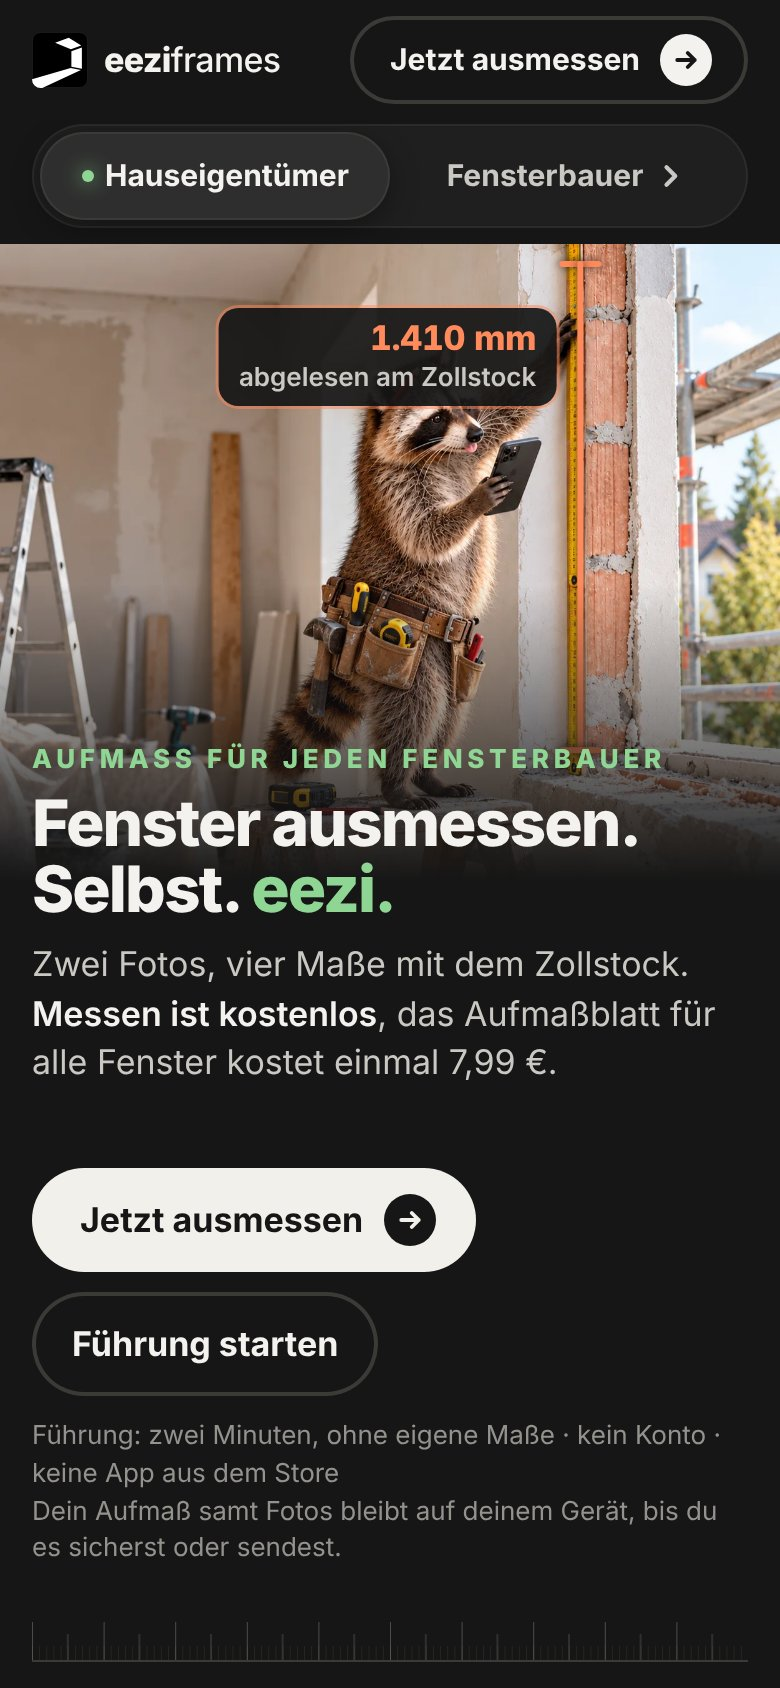
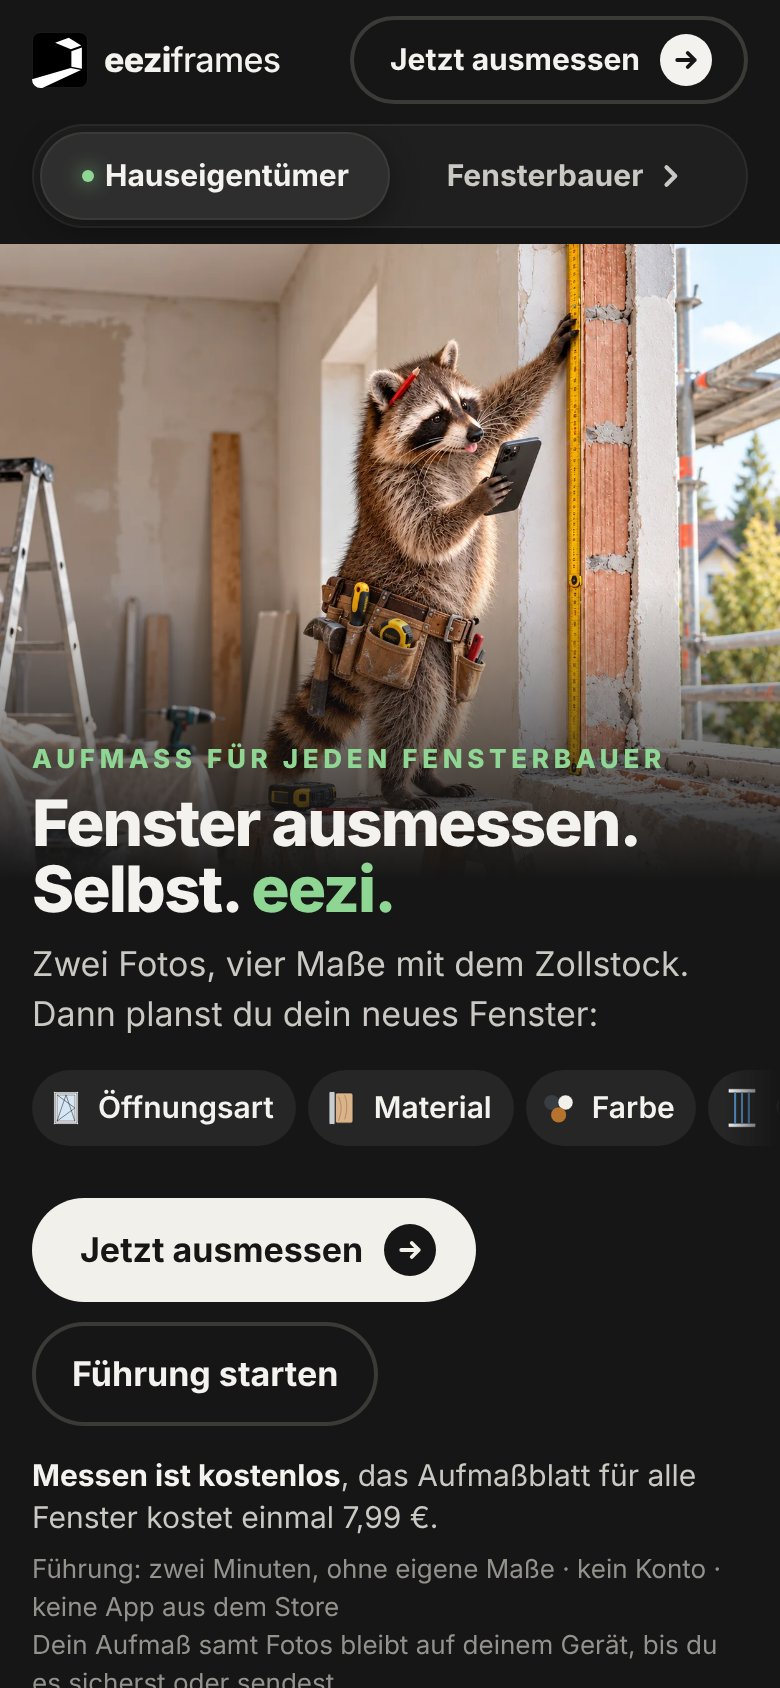
Startseite (Vorschau): Kopf ohne Maßlinie, Bausteinleiste mit den Themen des Konfigurators
Claude-Session: https://claude.ai/code/session_014C8LaYHw3bh6GgCbsL2BNx

diff --git a/docs/profis/startseite-vorschau/index.html b/docs/profis/startseite-vorschau/index.html
@@ -52,17 +52,11 @@ img { max-width: 100%; display: block }
 .seg a[aria-current]::before { content: ""; width: 6px; height: 6px; border-radius: 50%; background: var(--accent); box-shadow: 0 0 10px var(--accent) }
 .seg .chev { width: 14px; height: 14px; fill: none; stroke: currentColor; stroke-width: 2.4; stroke-linecap: round; stroke-linejoin: round }
 
-/* Kopf der Seite: zwei Stimmen auf dem Foto, der Waschbär und die Maßlinie */
+/* Kopf der Seite: das Foto ist der Held und bleibt frei; unter dem Preissatz die Leiste „Dazu planst du“ mit den Symbolen aus dem Konfigurator */
 .hero { padding-top: 8px }
 .foto { position: relative; margin: 0 calc(-1 * var(--gutter-l)) 0 calc(-1 * var(--gutter-r)); height: 360px; overflow: hidden }
-.foto img { width: 100%; height: 100%; object-fit: cover; object-position: 50% 30%; transform: scale(1.06); transform-origin: 50% 40% }
+.foto img { width: 100%; height: 100%; object-fit: cover; object-position: 50% 30%; transform-origin: 50% 40% }
 .foto::after { content: ""; position: absolute; left: 0; right: 0; bottom: 0; height: 190px; background: linear-gradient(0deg, var(--ground) 0%, var(--ground) 22%, rgba(22, 22, 22, .6) 55%, rgba(22, 22, 22, 0) 100%); pointer-events: none }
-.foto .mass { position: absolute; inset: 0; width: 100%; height: 100%; pointer-events: none; overflow: visible }
-.foto .mass line { stroke: var(--mo); stroke-width: 3; stroke-linecap: round; filter: drop-shadow(0 0 2px rgba(22, 22, 22, .8)) }
-.foto .mass .zug { stroke-dasharray: 1; stroke-dashoffset: 0 }
-.mw { position: absolute; transform: translate(-100%, 0); padding: 6px 10px 7px; border-radius: 10px; background: rgba(22, 22, 22, .92); text-align: right; white-space: nowrap; box-shadow: 0 0 0 1.5px rgba(255, 138, 91, .5) }
-.mw b { display: block; color: var(--mo); font-size: 17px; line-height: 1.1; font-weight: 800; font-variant-numeric: tabular-nums; letter-spacing: -.01em }
-.mw small { display: block; margin-top: 2px; color: var(--text2); font-size: 13px; line-height: 1.2; font-weight: 600 }
 .kicker { margin: 0; font-size: 13px; font-weight: 800; letter-spacing: .18em; text-transform: uppercase; color: var(--accent) }
 .hero .text { position: relative; z-index: 2; margin-top: -112px }
 h1 { margin: 6px 0 0; font-size: 32px; line-height: 1.05; font-weight: 800; letter-spacing: -.03em; text-wrap: balance }
@@ -72,8 +66,23 @@ h1 .ak { color: var(--accent) }
 .lead { margin: 8px 0 0; font-size: 17px; line-height: 1.45; color: var(--text2); max-width: 36ch; text-wrap: pretty }
 .lead b { color: var(--text); font-weight: 600 }
 .cta { display: flex; flex-wrap: wrap; gap: 10px; margin-top: 48px }
-.hero .cta { margin-top: 40px }
-.hint { margin: 10px 0 0; font-size: 13px; color: var(--muted); max-width: 46ch; text-wrap: pretty }
+.hero .cta { margin-top: 24px }
+.preiszeile { margin: 14px 0 0; font-size: 15px; line-height: 1.4; color: var(--text2); max-width: 40ch; text-wrap: pretty }
+.preiszeile b { color: var(--text); font-weight: 700 }
+/* Bausteine: was man in der App plant. Am Telefon eine wischbare Leiste bis an den Rand, rechts ausgeblendet (es kommt mehr); ab 720 px umbrochen. Keine Knöpfe: Schilder ohne Hover und ohne Pfeil. */
+.bausteine { list-style: none; display: flex; align-items: center; gap: 8px; margin: 14px calc(-1 * var(--gutter-r)) 0 calc(-1 * var(--gutter-l)); padding: 2px var(--gutter-r) 2px var(--gutter-l); overflow-x: auto; overscroll-behavior-x: contain; scroll-snap-type: x proximity; scroll-padding-left: var(--gutter-l); scrollbar-width: none; -webkit-mask-image: linear-gradient(90deg, #000 calc(100% - 48px), transparent); mask-image: linear-gradient(90deg, #000 calc(100% - 48px), transparent) }
+.bausteine::-webkit-scrollbar { display: none }
+.bausteine.ende { -webkit-mask-image: none; mask-image: none }
+.bausteine li { flex: 0 0 auto; scroll-snap-align: start }
+.baustein { display: inline-flex; align-items: center; gap: 6px; height: 38px; padding: 0 13px 0 7px; border-radius: 999px; background: rgba(243, 242, 238, .075); font-size: 15px; font-weight: 600; color: var(--text); white-space: nowrap; cursor: default }
+.baustein svg { width: 24px; height: 24px; flex: 0 0 auto }
+@media (max-width: 719px) {
+  /* Telefon: so schmal, dass der vierte Baustein unter der Ausblendung sichtbar anschaut */
+  .bausteine { gap: 6px; -webkit-mask-image: linear-gradient(90deg, #000 calc(100% - 28px), transparent); mask-image: linear-gradient(90deg, #000 calc(100% - 28px), transparent) }
+  .baustein { gap: 5px; padding: 0 11px 0 6px }
+  .baustein svg { width: 22px; height: 22px }
+}
+.hint { margin: 6px 0 0; font-size: 13px; color: var(--muted); max-width: 46ch; text-wrap: pretty }
 
 /* Messband: füllt sich mit dem Lesen */
 .band { position: relative; height: 26px; margin: 22px 0 0; overflow: hidden }
@@ -153,23 +162,19 @@ h2 .ak { color: var(--accent) }
 .fuss a { text-decoration: none; color: var(--muted); min-height: 32px; display: inline-flex; align-items: center }
 .fuss a:hover { color: var(--text) }
 
-/* Auftritt, vier Takte (ms): 0 Foto 1,06 → 1 (900) · 0 Kicker, 0/80 Zeilen der Überschrift aus der Maske (500, fertig bei 580), 160 Lead (500) · Pille und Hinweis stehen von Bild eins an · 800 Maßlinie zeichnet sich am Zollstock (900), 1700 der Wert landet (400). Nach 2,1 s Stille. */
+/* Auftritt, vier Takte (ms): 0 Foto 1,06 → 1 (900) · 0 Kicker, 0/80 Zeilen der Überschrift aus der Maske (500, fertig bei 580), 160 Lead (500) · 420 Bausteine gleiten von rechts in die Leiste, je 50 ms später (320; zeigt: da kommt mehr) · Pille und Hinweis stehen von Bild eins an. Nach 1,1 s Stille. */
 .an .foto img { animation: foto 900ms var(--e-auf) both }
 @keyframes foto { from { transform: scale(1.06) } to { transform: scale(1) } }
 .an .kicker.k1 { animation: auf 500ms var(--e-auf) both }
 .an h1 .zeile:nth-child(1) > span { animation: maske 500ms var(--e-auf) both }
 .an h1 .zeile:nth-child(2) > span { animation: maske 500ms var(--e-auf) 80ms both }
 .an .lead { animation: auf 500ms var(--e-auf) 160ms both }
-.an .mass .zug { animation: zug 900ms var(--e-auf) 800ms both }
-.an .mass .kappe { animation: ein 300ms var(--e-out) both } .an .mass .kappe.a { animation-delay: 800ms } .an .mass .kappe.b { animation-delay: 1500ms }
-.an .mw { animation: aufmw 400ms var(--e-auf) 1700ms both }
+.an .bausteine li { animation: rein 320ms var(--e-auf) both; animation-delay: calc(420ms + var(--i, 0) * 50ms) }
 @keyframes auf { from { opacity: 0; transform: translateY(10px) } to { opacity: 1; transform: none } }
 @keyframes maske { from { transform: translateY(110%) } to { transform: none } }
-@keyframes zug { from { stroke-dashoffset: 1 } to { stroke-dashoffset: 0 } }
-@keyframes ein { from { opacity: 0 } to { opacity: 1 } }
-@keyframes aufmw { from { opacity: 0; transform: translate(-100%, 10px) } to { opacity: 1; transform: translate(-100%, 0) } }
+@keyframes rein { from { opacity: 0; transform: translateX(16px) } to { opacity: 1; transform: none } }
 /* Bis die Schrift geladen ist, stehen die Takte auf ihrem ersten Bild (sonst springt die Maske beim Schriftwechsel) */
-.an.warte .foto img, .an.warte .kicker.k1, .an.warte h1 .zeile > span, .an.warte .lead, .an.warte .mass .zug, .an.warte .mass .kappe, .an.warte .mw { animation-play-state: paused }
+.an.warte .foto img, .an.warte .kicker.k1, .an.warte h1 .zeile > span, .an.warte .lead, .an.warte .bausteine li { animation-play-state: paused }
 
 /* Abschnitte erscheinen einmal, wenn 15 % im Bild sind: 600 ms, 12 px */
 .rev .haar { transform: scaleX(0); transition: transform 600ms var(--e-auf) }
@@ -180,7 +185,7 @@ h2 .ak { color: var(--accent) }
 .rev.in .kicker, .rev.in h2, .rev.in .sub, .rev.in .schritt, .rev.in .medien, .rev.in .liste, .rev.in .beispiel, .rev.in .linkzeile, .rev.in .arten, .rev.in .preis, .rev.in .rat, .rev.in .fb-inhalt { opacity: 1; transform: none }
 
 @media (prefers-reduced-motion: reduce) {
-  .an .foto img, .an .kicker.k1, .an h1 .zeile > span, .an .lead, .an .mass .zug, .an .mass .kappe, .an .mw { animation: none }
+  .an .foto img, .an .kicker.k1, .an h1 .zeile > span, .an .lead, .an .bausteine li { animation: none }
   .foto img { transform: none }
   .rev .haar, .rev .kicker, .rev h2, .rev .sub, .rev .schritt, .rev .medien, .rev .liste, .rev .beispiel, .rev .linkzeile, .rev .arten, .rev .preis, .rev .rat, .rev .fb-inhalt { opacity: 1; transform: none; transition: none }
   .band .fuell { transition: none }
@@ -192,6 +197,7 @@ h2 .ak { color: var(--accent) }
   .blattblock { grid-template-columns: minmax(0, 1fr) minmax(0, 1fr); gap: 40px }
   .liste { grid-template-columns: 1fr 1fr }
   .arten { grid-template-columns: repeat(6, 1fr); max-width: none }
+  .bausteine { flex-wrap: wrap; overflow: visible; margin-left: 0; margin-right: 0; padding: 0; max-width: 470px; -webkit-mask-image: none; mask-image: none }
 }
 @media (min-width: 1024px) {
   .seg { width: 320px; margin: 0 auto }
@@ -219,14 +225,14 @@ h2 .ak { color: var(--accent) }
 <section class="hero" id="kopf">
   <div class="fotohalter"><div class="foto">
     <img src="bilder/hero.webp" width="1250" height="1250" alt="Ein Waschbär steht auf einem Tritt und misst mit dem Zollstock die Maueröffnung eines Fensters, in der anderen Pfote das Handy" fetchpriority="high">
-    <svg class="mass" aria-hidden="true"><line class="kappe a" x1="0" y1="0" x2="0" y2="0"/><line class="zug" pathLength="1" x1="0" y1="0" x2="0" y2="0"/><line class="kappe b" x1="0" y1="0" x2="0" y2="0"/></svg>
-    <span class="mw" id="mw"><b>1.410 mm</b><small>abgelesen am Zollstock</small></span>
   </div></div>
   <div class="text">
     <p class="kicker k1">Aufmaß für jeden Fensterbauer</p>
     <h1><span class="zeile"><span>Fenster ausmessen.</span></span><span class="zeile"><span>Selbst. <span class="ak">eezi.</span></span></span></h1>
-    <p class="lead">Zwei Fotos, vier Maße mit dem Zollstock. <b>Messen ist kostenlos</b>, das Aufmaßblatt für alle Fenster kostet einmal 7,99&nbsp;€.</p>
+    <p class="lead">Zwei Fotos, vier Maße mit dem Zollstock. Dann planst du dein neues Fenster:</p>
+    <ul class="bausteine" id="bausteine" aria-label="Dazu planst du in der App"><li style="--i: 0"><span class="baustein"><svg aria-hidden="true" viewBox="0 0 64 64" width="40" height="40" aria-hidden="true"><path d="M15.2 8h33.6a1.2 1.2 0 0 1 1.2 1.2v45.6a1.2 1.2 0 0 1 -1.2 1.2h-33.6a1.2 1.2 0 0 1 -1.2 -1.2v-45.6a1.2 1.2 0 0 1 1.2 -1.2Z" fill="#ffffff" stroke="#1d1d1f" stroke-width="1.3" stroke-linecap="round" stroke-linejoin="round"></path><path d="M16.2 10.2h31.7v43.7h-31.7Z" fill="#ffffff" stroke="#1d1d1f" stroke-width="0.8" stroke-linecap="round" stroke-linejoin="round"></path><path d="M19 13h26v38h-26Z" fill="#d6e6f4" stroke="#1d1d1f" stroke-width="0.6" stroke-linecap="round" stroke-linejoin="round"></path><path d="M19 13L45 32L19 51" fill="none" stroke="#1d1d1f" stroke-width="0.75" stroke-linecap="round" stroke-linejoin="round"></path><path d="M19 51L32 13L45 51" fill="none" stroke="#1d1d1f" stroke-width="0.75" stroke-linecap="round" stroke-linejoin="round"></path></svg>Öffnungsart</span></li><li style="--i: 1"><span class="baustein"><svg aria-hidden="true" viewBox="0 0 64 64" width="40" height="40" aria-hidden="true"><path d="M25 10h20a3 3 0 0 1 3 3v38a3 3 0 0 1 -3 3h-20a3 3 0 0 1 -3 -3v-38a3 3 0 0 1 3 -3Z" fill="#d9b48a" stroke="#1d1d1f" stroke-width="1.3" stroke-linecap="round" stroke-linejoin="round"></path><path d="M27 16c5 10 5 22 0 34M36 14c4 8 4 22 0 34" fill="none" stroke="#a3763f" stroke-width="1" stroke-linecap="round" stroke-linejoin="round"></path><path d="M15 8h5a2 2 0 0 1 2 2v44a2 2 0 0 1 -2 2h-5a2 2 0 0 1 -2 -2v-44a2 2 0 0 1 2 -2Z" fill="#c8cdd2" stroke="#1d1d1f" stroke-width="1.3" stroke-linecap="round" stroke-linejoin="round"></path></svg>Material</span></li><li style="--i: 2"><span class="baustein"><svg aria-hidden="true" viewBox="0 0 64 64" width="40" height="40" aria-hidden="true"><path d="M9 24a11 11 0 1 0 22 0a11 11 0 1 0 -22 0Z" fill="#383e42" stroke="none" stroke-width="1.6" stroke-linecap="round" stroke-linejoin="round"></path><path d="M29 24a11 11 0 1 0 22 0a11 11 0 1 0 -22 0Z" fill="#f1f0ea" stroke="#1d1d1f" stroke-width="0.8" stroke-linecap="round" stroke-linejoin="round"></path><path d="M19 42a11 11 0 1 0 22 0a11 11 0 1 0 -22 0Z" fill="#b5732f" stroke="none" stroke-width="1.6" stroke-linecap="round" stroke-linejoin="round"></path></svg>Farbe</span></li><li style="--i: 3"><span class="baustein"><svg aria-hidden="true" viewBox="0 0 64 64" width="40" height="40" aria-hidden="true"><path d="M13.5 4h37a1.5 1.5 0 0 1 1.5 1.5v3a1.5 1.5 0 0 1 -1.5 1.5h-37a1.5 1.5 0 0 1 -1.5 -1.5v-3a1.5 1.5 0 0 1 1.5 -1.5Z" fill="#ffffff" stroke="#1d1d1f" stroke-width="1" stroke-linecap="round" stroke-linejoin="round"></path><path d="M13.5 54h37a1.5 1.5 0 0 1 1.5 1.5v3a1.5 1.5 0 0 1 -1.5 1.5h-37a1.5 1.5 0 0 1 -1.5 -1.5v-3a1.5 1.5 0 0 1 1.5 -1.5Z" fill="#ffffff" stroke="#1d1d1f" stroke-width="1" stroke-linecap="round" stroke-linejoin="round"></path><path d="M22 10L22 54" fill="none" stroke="#5b9bd5" stroke-width="3" stroke-linecap="round" stroke-linejoin="round"></path><path d="M32 10L32 54" fill="none" stroke="#5b9bd5" stroke-width="3" stroke-linecap="round" stroke-linejoin="round"></path><path d="M42 10L42 54" fill="none" stroke="#5b9bd5" stroke-width="3" stroke-linecap="round" stroke-linejoin="round"></path></svg>Glas</span></li><li style="--i: 4"><span class="baustein"><svg aria-hidden="true" viewBox="0 0 64 64" width="40" height="40" aria-hidden="true"><path d="M15.2 8h33.6a1.2 1.2 0 0 1 1.2 1.2v45.6a1.2 1.2 0 0 1 -1.2 1.2h-33.6a1.2 1.2 0 0 1 -1.2 -1.2v-45.6a1.2 1.2 0 0 1 1.2 -1.2Z" fill="#ffffff" stroke="#1d1d1f" stroke-width="1.3" stroke-linecap="round" stroke-linejoin="round"></path><path d="M18 12h28v40h-28Z" fill="#d6e6f4" stroke="#1d1d1f" stroke-width="0.7" stroke-linecap="round" stroke-linejoin="round"></path><path d="M32 12L32 52" fill="none" stroke="#1d1d1f" stroke-width="1.4" stroke-linecap="round" stroke-linejoin="round"></path><path d="M18 32L46 32" fill="none" stroke="#1d1d1f" stroke-width="1.4" stroke-linecap="round" stroke-linejoin="round"></path></svg>Sprossen</span></li><li style="--i: 5"><span class="baustein"><svg aria-hidden="true" viewBox="0 0 64 64" width="40" height="40" aria-hidden="true"><path d="M31 6h2a5 5 0 0 1 5 5v14a5 5 0 0 1 -5 5h-2a5 5 0 0 1 -5 -5v-14a5 5 0 0 1 5 -5Z" fill="#ffffff" stroke="#1d1d1f" stroke-width="1.3" stroke-linecap="round" stroke-linejoin="round"></path><path d="M32 18h0a3 3 0 0 1 3 3v34a3 3 0 0 1 -3 3h0a3 3 0 0 1 -3 -3v-34a3 3 0 0 1 3 -3Z" fill="#ffffff" stroke="#1d1d1f" stroke-width="1.3" stroke-linecap="round" stroke-linejoin="round"></path><path d="M29.6 12a2.4 2.4 0 1 0 4.8 0a2.4 2.4 0 1 0 -4.8 0Z" fill="#1d1d1f" stroke="none" stroke-width="1.6" stroke-linecap="round" stroke-linejoin="round"></path><path d="M32 12L32 15.5" fill="none" stroke="#1d1d1f" stroke-width="1.4" stroke-linecap="round" stroke-linejoin="round"></path></svg>Griff</span></li><li style="--i: 6"><span class="baustein"><svg aria-hidden="true" viewBox="0 0 64 64" width="40" height="40" aria-hidden="true"><path d="M32 5l20 8v15c0 13-8 23-20 31C20 51 12 41 12 28V13z" fill="#ffffff" stroke="#1d1d1f" stroke-width="1.4" stroke-linecap="round" stroke-linejoin="round"></path><path d="M27 28h10a2 2 0 0 1 2 2v8a2 2 0 0 1 -2 2h-10a2 2 0 0 1 -2 -2v-8a2 2 0 0 1 2 -2Z" fill="#1d1d1f" stroke="none" stroke-width="1.6" stroke-linecap="round" stroke-linejoin="round"></path><path d="M28 28v-4a4 4 0 0 1 8 0v4" fill="none" stroke="#1d1d1f" stroke-width="1.8" stroke-linecap="round" stroke-linejoin="round"></path></svg>Sicherheit</span></li><li style="--i: 7"><span class="baustein"><svg aria-hidden="true" viewBox="0 0 64 64" width="40" height="40" aria-hidden="true"><path d="M14 2h36v10h-36Z" fill="#ddd6cb" stroke="#1d1d1f" stroke-width="0.8" stroke-linecap="round" stroke-linejoin="round"></path><path d="M14 54h36v8h-36Z" fill="#ddd6cb" stroke="#1d1d1f" stroke-width="0.8" stroke-linecap="round" stroke-linejoin="round"></path><path d="M22 12h20v42h-20Z" fill="#ffffff" stroke="#1d1d1f" stroke-width="1.1" stroke-linecap="round" stroke-linejoin="round"></path><path d="M24.5 14.5h15v37h-15Z" fill="#d6e6f4" stroke="#1d1d1f" stroke-width="0.6" stroke-linecap="round" stroke-linejoin="round"></path><path d="M19.5 10h25a1.5 1.5 0 0 1 1.5 1.5v4a1.5 1.5 0 0 1 -1.5 1.5h-25a1.5 1.5 0 0 1 -1.5 -1.5v-4a1.5 1.5 0 0 1 1.5 -1.5Z" fill="#ffffff" stroke="#1d1d1f" stroke-width="1.1" stroke-linecap="round" stroke-linejoin="round"></path><path d="M20.6 19h22.8a0.6 0.6 0 0 1 0.6 0.6v1.4a0.6 0.6 0 0 1 -0.6 0.6h-22.8a0.6 0.6 0 0 1 -0.6 -0.6v-1.4a0.6 0.6 0 0 1 0.6 -0.6Z" fill="#b9bdc2" stroke="#1d1d1f" stroke-width="0.4" stroke-linecap="round" stroke-linejoin="round"></path><path d="M20.6 22h22.8a0.6 0.6 0 0 1 0.6 0.6v1.4a0.6 0.6 0 0 1 -0.6 0.6h-22.8a0.6 0.6 0 0 1 -0.6 -0.6v-1.4a0.6 0.6 0 0 1 0.6 -0.6Z" fill="#b9bdc2" stroke="#1d1d1f" stroke-width="0.4" stroke-linecap="round" stroke-linejoin="round"></path><path d="M20.6 25h22.8a0.6 0.6 0 0 1 0.6 0.6v1.4a0.6 0.6 0 0 1 -0.6 0.6h-22.8a0.6 0.6 0 0 1 -0.6 -0.6v-1.4a0.6 0.6 0 0 1 0.6 -0.6Z" fill="#b9bdc2" stroke="#1d1d1f" stroke-width="0.4" stroke-linecap="round" stroke-linejoin="round"></path><path d="M20.6 28h22.8a0.6 0.6 0 0 1 0.6 0.6v1.4a0.6 0.6 0 0 1 -0.6 0.6h-22.8a0.6 0.6 0 0 1 -0.6 -0.6v-1.4a0.6 0.6 0 0 1 0.6 -0.6Z" fill="#b9bdc2" stroke="#1d1d1f" stroke-width="0.4" stroke-linecap="round" stroke-linejoin="round"></path><path d="M20.6 31h22.8a0.6 0.6 0 0 1 0.6 0.6v1.4a0.6 0.6 0 0 1 -0.6 0.6h-22.8a0.6 0.6 0 0 1 -0.6 -0.6v-1.4a0.6 0.6 0 0 1 0.6 -0.6Z" fill="#b9bdc2" stroke="#1d1d1f" stroke-width="0.4" stroke-linecap="round" stroke-linejoin="round"></path><path d="M20.6 34h22.8a0.6 0.6 0 0 1 0.6 0.6v1.4a0.6 0.6 0 0 1 -0.6 0.6h-22.8a0.6 0.6 0 0 1 -0.6 -0.6v-1.4a0.6 0.6 0 0 1 0.6 -0.6Z" fill="#b9bdc2" stroke="#1d1d1f" stroke-width="0.4" stroke-linecap="round" stroke-linejoin="round"></path></svg>Rollladen</span></li><li style="--i: 8"><span class="baustein"><svg aria-hidden="true" viewBox="0 0 64 64" width="40" height="40" aria-hidden="true"><path d="M14 6h36a2 2 0 0 1 2 2v48a2 2 0 0 1 -2 2h-36a2 2 0 0 1 -2 -2v-48a2 2 0 0 1 2 -2Z" fill="#ffffff" stroke="#1d1d1f" stroke-width="1.3" stroke-linecap="round" stroke-linejoin="round"></path><path d="M17 11h30v42h-30Z" fill="#eef1f4" stroke="#1d1d1f" stroke-width="0.7" stroke-linecap="round" stroke-linejoin="round"></path><path d="M20 11L20 53M24 11L24 53M28 11L28 53M32 11L32 53M36 11L36 53M40 11L40 53M44 11L44 53M17 14L47 14M17 18L47 18M17 22L47 22M17 26L47 26M17 30L47 30M17 34L47 34M17 38L47 38M17 42L47 42M17 46L47 46M17 50L47 50" fill="none" stroke="#a1a1a6" stroke-width="0.5" stroke-linecap="round" stroke-linejoin="round"></path><path d="M11 16h1a1 1 0 0 1 1 1v5a1 1 0 0 1 -1 1h-1a1 1 0 0 1 -1 -1v-5a1 1 0 0 1 1 -1Z" fill="#1d1d1f" stroke="none" stroke-width="1.6" stroke-linecap="round" stroke-linejoin="round"></path><path d="M11 41h1a1 1 0 0 1 1 1v5a1 1 0 0 1 -1 1h-1a1 1 0 0 1 -1 -1v-5a1 1 0 0 1 1 -1Z" fill="#1d1d1f" stroke="none" stroke-width="1.6" stroke-linecap="round" stroke-linejoin="round"></path><path d="M52 58A40 40 0 0 0 52 18" fill="none" stroke="#a1a1a6" stroke-width="1" stroke-dasharray="2 2" stroke-linecap="round" stroke-linejoin="round"></path></svg>Insektenschutz</span></li><li style="--i: 9"><span class="baustein"><svg aria-hidden="true" viewBox="0 0 64 64" width="40" height="40" aria-hidden="true"><path d="M6 30h40v24h-40Z" fill="#ddd6cb" stroke="#1d1d1f" stroke-width="0.8" stroke-linecap="round" stroke-linejoin="round"></path><path d="M30 8h8v22h-8Z" fill="#ffffff" stroke="#1d1d1f" stroke-width="1.1" stroke-linecap="round" stroke-linejoin="round"></path><path d="M38 30L60 32L60 35L38 33Z" fill="#c8cdd2" stroke="#1d1d1f" stroke-width="1" stroke-linecap="round" stroke-linejoin="round"></path></svg>Fensterbank</span></li></ul>
     <div class="cta"><a class="pille gross" href="#"><span>Jetzt ausmessen</span><span class="pf" aria-hidden="true"><svg viewBox="0 0 16 16" fill="none" stroke-width="2.2" stroke-linecap="round" stroke-linejoin="round"><path d="M3 8h10M9 4l4 4-4 4"/></svg></span></a><a class="geist" href="#">Führung starten</a></div>
+    <p class="preiszeile"><b>Messen ist kostenlos</b>, das Aufmaßblatt für alle Fenster kostet einmal 7,99&nbsp;€.</p>
     <p class="hint">Führung: zwei Minuten, ohne eigene Maße · kein Konto · keine App aus dem Store<br>Dein Aufmaß samt Fotos bleibt auf deinem Gerät, bis du es sicherst oder sendest.</p>
   </div>
 </section>
@@ -308,20 +314,14 @@ h2 .ak { color: var(--accent) }
 (function () {
   var ruhig = window.matchMedia('(prefers-reduced-motion: reduce)').matches;
   var hero = document.getElementById('kopf');
-  /* Maßlinie auf dem Foto: entlang des Zollstocks an der rechten Laibung (Foto 1250 × 1250, Zollstock bei x 930, Oberkante bei y 60, Fensterbank bei y 840). Der Wert sitzt oben links neben der Linie, nicht über dem Handy. */
-  var foto = hero.querySelector('.foto'), img = foto.querySelector('img'), svg = foto.querySelector('.mass'), mw = document.getElementById('mw');
-  function linie() {
-    var W = foto.clientWidth, H = foto.clientHeight, s = Math.max(W / 1250, H / 1250), dw = 1250 * s, dh = 1250 * s;
-    var ox = (W - dw) * 0.5, oy = (H - dh) * (window.innerWidth >= 1024 ? 0.25 : 0.30);
-    var x = ox + 930 * s, y1 = Math.max(10, oy + 60 * s), y2 = oy + 840 * s;
-    var z = svg.querySelector('.zug'), a = svg.querySelector('.kappe.a'), b = svg.querySelector('.kappe.b');
-    z.setAttribute('x1', x); z.setAttribute('x2', x); z.setAttribute('y1', y1); z.setAttribute('y2', y2);
-    a.setAttribute('x1', x - 9); a.setAttribute('x2', x + 9); a.setAttribute('y1', y1); a.setAttribute('y2', y1);
-    b.setAttribute('x1', x - 9); b.setAttribute('x2', x + 9); b.setAttribute('y1', y2); b.setAttribute('y2', y2);
-    mw.style.left = (x - 12) + 'px'; mw.style.top = (y1 + 22) + 'px';
+  /* Bausteinleiste: rechts ausgeblendet, solange noch etwas kommt; wischbar nur, wenn sie überläuft (dann auch mit der Tastatur erreichbar) */
+  var leiste = document.getElementById('bausteine');
+  function leisteRand() {
+    var laeuft = leiste.scrollWidth > leiste.clientWidth + 1;
+    if (laeuft) { leiste.setAttribute('tabindex', '0'); } else { leiste.removeAttribute('tabindex'); }
+    leiste.classList.toggle('ende', !laeuft || leiste.scrollLeft + leiste.clientWidth >= leiste.scrollWidth - 8);
   }
-  linie(); window.addEventListener('resize', linie);
-  if (img.decode) img.decode().then(linie).catch(function () {});
+  leiste.addEventListener('scroll', leisteRand, { passive: true }); window.addEventListener('resize', leisteRand); leisteRand();
   /* Auftritt: nur beim ersten Aufruf in dieser Sitzung, nur mit Bewegung, erst wenn die Schrift da ist (sonst springt die Maske) */
   var schon = false; try { schon = sessionStorage.getItem('start-auftritt') === '1'; sessionStorage.setItem('start-auftritt', '1'); } catch (e) { /* ohne Speicher */ }
   if (!schon && !ruhig) {
@@ -329,6 +329,8 @@ h2 .ak { color: var(--accent) }
     var frei = function () { hero.classList.remove('warte'); };
     if (document.fonts && document.fonts.ready) document.fonts.ready.then(frei);
     setTimeout(frei, 400);
+    /* Nach dem Auftritt die Klasse lösen: Endbild und Ruhezustand sind gleich, danach läuft und hängt keine Animation mehr */
+    setTimeout(function () { hero.classList.remove('an', 'warte'); }, 2400);
   }
   /* Abschnitte erscheinen einmal, wenn 15 % im Bild sind */
   var io = ('IntersectionObserver' in window) ? new IntersectionObserver(function (es) { es.forEach(function (e) { if (e.isIntersecting) { e.target.classList.add('in'); io.unobserve(e.target); } }); }, { threshold: 0.15 }) : null;

diff --git a/docs/profis/2026-10-25-startseite.md b/docs/profis/2026-10-25-startseite.md
@@ -107,3 +107,16 @@ Noch keine.
 ## Realitäts-Check
 
 Steht aus. Fragekarte: zwei bis drei echte Menschen (ideal über 65, ohne Technikgewohnheit, ein Fensterbauer), fünf Minuten, keine Hilfe: „Was würdest du jetzt tun?“ (wörtlich notieren), „Was kostet das?“, „Wie sicher bist du, dass du das hinbekommst, 1 bis 5?“
+
+## Nachtrag 26.10.: Wunsch des Inhabers zum Kopf (nur ultimativ-webdesign, ohne Gremium)
+
+Rückmeldung: Kopfzeile „super“; die Maßlinie im Foto „hässlich“; es fehlen Chips, die zeigen, was man alles machen kann, auch in Richtung Konfigurator.
+
+Umgesetzt (Version 2 des Artefakts):
+- Maßlinie und Plakette „1.410 mm · abgelesen am Zollstock“ entfernt; das Foto bleibt frei.
+- Lead endet mit Doppelpunkt: „Zwei Fotos, vier Maße mit dem Zollstock. Dann planst du dein neues Fenster:“, darunter die Bausteinleiste mit den echten Symbolen aus dem Glossar der App: Öffnungsart, Material, Farbe, Glas, Sprossen, Griff, Sicherheit, Rollladen, Insektenschutz, Fensterbank (Kapitel der Wünsche laut `KAPITEL` in app.js). Am Telefon eine wischbare Leiste bis an den Rand, rechts ausgeblendet, der vierte Baustein schaut an; ab 720 px umbrochen (4/4/2). Schilder ohne Rand, ohne Hover, ohne Pfeil, damit sie nicht wie Knöpfe wirken.
+- Preissatz direkt unter den Knöpfen („Messen ist kostenlos, das Aufmaßblatt für alle Fenster kostet einmal 7,99 €.“), damit die Pille unter 600 px bleibt.
+- Auftritt: Foto, Überschrift, Lead wie bisher; ab 420 ms gleiten die Bausteine je 50 ms später von rechts herein (zeigt: da kommt mehr), fertig nach 1,2 s; nach 2,4 s wird die Klasse gelöst, es hängt keine Animation mehr.
+- Verworfen: Chips als Glasplättchen auf dem Foto (verdecken den Waschbären), zwei Reihen (Pille rutscht über 600 px oder das Foto schrumpft auf 300 px).
+
+Gemessen: Pille 599 px (Schreibtisch 474), eine Cream-Pille, kein Querscrollen, Leiste am Telefon 1.190 px breit und per Tastatur erreichbar, am Schreibtisch ohne Tabstopp, bei „weniger Bewegung“ alles sofort.
